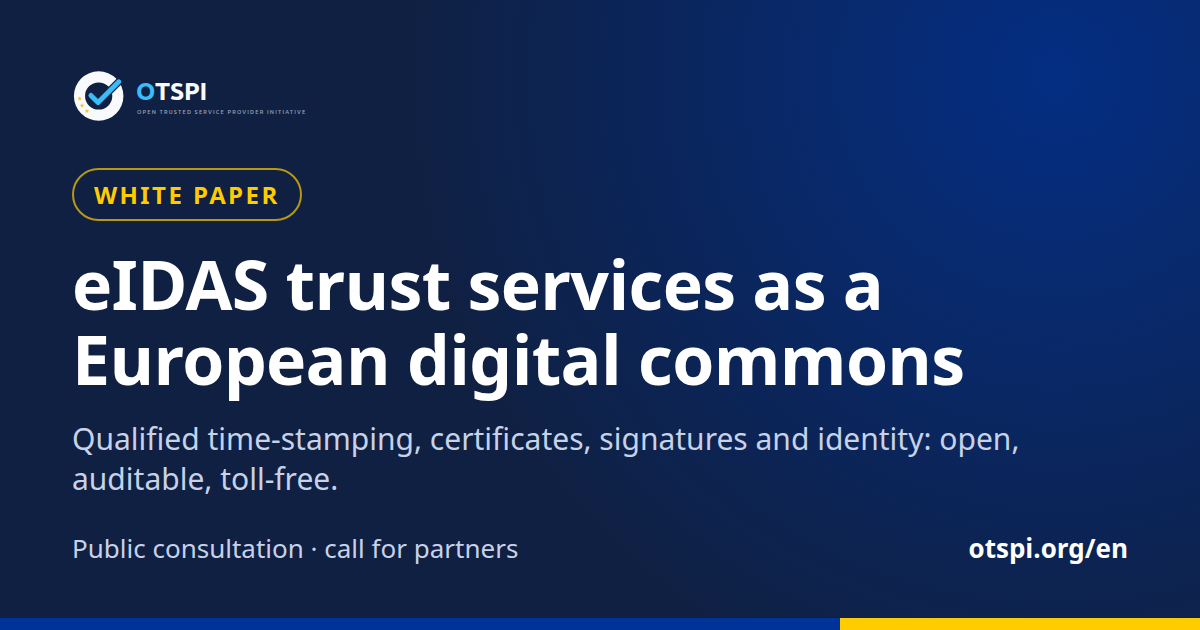
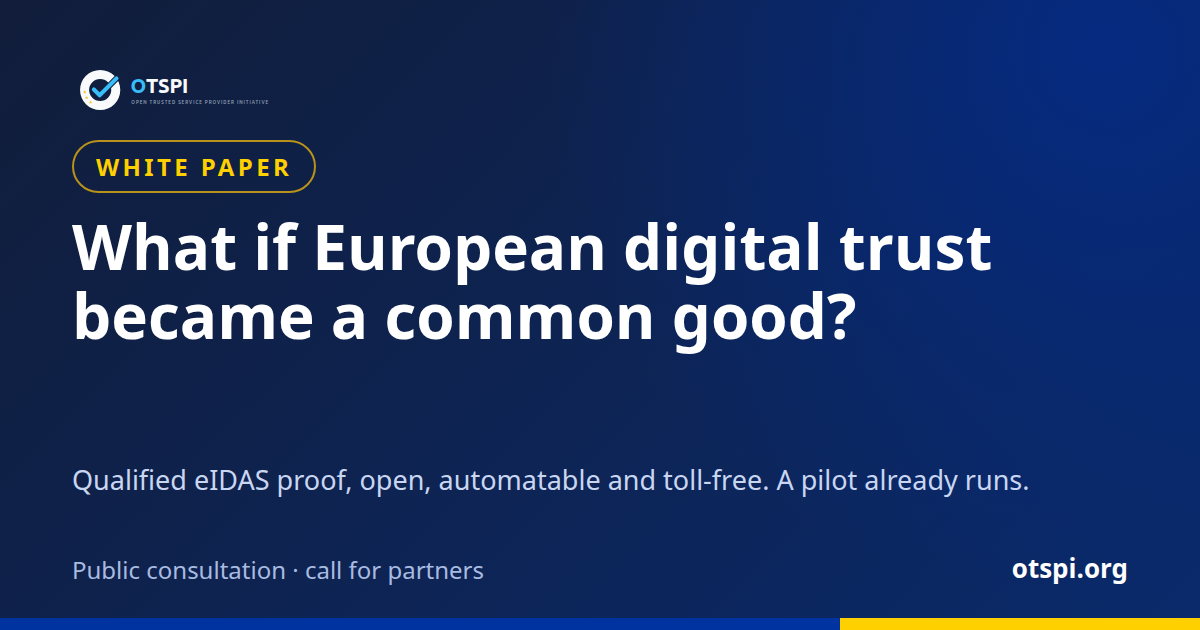
feat(accueil): images de partage régénérées avec la nouvelle accroche

diff --git a/scripts/build_og.py b/scripts/build_og.py
@@ -1,0 +1,91 @@
+#!/usr/bin/env python3
+# SPDX-License-Identifier: EUPL-1.2
+"""Génère les images de partage de l'accueil (1200 × 630) : assets/og/og-fr.png et og-en.png.
+
+L'image est composée en HTML puis capturée par Chrome ou Chromium en mode headless ; la variable
+d'environnement CHROME permet d'imposer le binaire. Le titre et le sous-titre doivent rester
+identiques à ceux du hero de la page d'accueil.
+
+Usage :
+    python3 scripts/build_og.py
+"""
+
+import os
+import shutil
+import subprocess
+import sys
+import tempfile
+from pathlib import Path
+
+ROOT = Path(__file__).resolve().parent.parent
+OUT = ROOT / "assets" / "og"
+LOGO = ROOT / "assets" / "logo-horizontal-transparent-dark.svg"
+
+TEXTS = {
+    "fr": ("Livre blanc", "Et si la confiance numérique européenne devenait un bien commun&nbsp;?",
+           "La preuve qualifiée eIDAS, ouverte, automatisable et sans péage. Un pilote tourne déjà.",
+           "Consultation publique · appel à partenaires"),
+    "en": ("White paper", "What if European digital trust became a common good?",
+           "Qualified eIDAS proof, open, automatable and toll-free. A pilot already runs.",
+           "Public consultation · call for partners"),
+}
+
+PAGE = """<!doctype html><html><head><meta charset="utf-8"><style>
+html,body{margin:0;width:1200px;height:630px;overflow:hidden}
+body{font-family:"Noto Sans","Open Sans",system-ui,sans-serif;color:#fff;
+background:radial-gradient(circle at 92% 8%,#052a80 0,transparent 45%),linear-gradient(135deg,#111d3a,#0a2a6b);position:relative}
+.logo{position:absolute;left:72px;top:64px;height:52px}
+.badge{position:absolute;left:72px;top:140px;padding:8px 22px;border:2px solid #b8921a;border-radius:999px;
+color:#ffd000;font-weight:700;font-size:24px;letter-spacing:.14em;text-transform:uppercase}
+h1{position:absolute;left:72px;top:212px;width:1056px;margin:0;font-size:62px;line-height:1.12;font-weight:700}
+.sub{position:absolute;left:72px;top:462px;width:1000px;font-size:27px;line-height:1.35;color:#c9d6f2}
+.foot{position:absolute;left:72px;bottom:44px;font-size:24px;color:#a9bbe0}
+.url{position:absolute;right:72px;bottom:44px;font-size:26px;font-weight:700}
+.bar{position:absolute;left:0;bottom:0;height:12px;width:70%;background:#0033a0}
+.bar2{position:absolute;right:0;bottom:0;height:12px;width:30%;background:#ffd000}
+</style></head><body>
+<img class="logo" src="logo.svg" alt="">
+<div class="badge">{{badge}}</div>
+<h1>{{title}}</h1>
+<div class="sub">{{sub}}</div>
+<div class="foot">{{foot}}</div><div class="url">otspi.org</div>
+<div class="bar"></div><div class="bar2"></div>
+</body></html>"""
+
+
+def find_chrome():
+    if os.environ.get("CHROME"):
+        return os.environ["CHROME"]
+    for name in ("google-chrome", "google-chrome-stable", "chromium", "chromium-browser"):
+        path = shutil.which(name)
+        if path:
+            return path
+    sys.exit("Chrome ou Chromium introuvable : définir la variable d'environnement CHROME.")
+
+
+def main():
+    chrome = find_chrome()
+    with tempfile.TemporaryDirectory() as work:
+        work = Path(work)
+        shutil.copy(LOGO, work / "logo.svg")
+        for lang, (badge, title, sub, foot) in TEXTS.items():
+            page = work / f"{lang}.html"
+            html = PAGE
+            for key, value in (("badge", badge), ("title", title), ("sub", sub), ("foot", foot)):
+                html = html.replace("{{" + key + "}}", value)
+            page.write_text(html, encoding="utf-8")
+            output = OUT / f"og-{lang}.png"
+            with tempfile.TemporaryDirectory() as profile:
+                cmd = [chrome, "--headless=new", "--disable-gpu", "--hide-scrollbars", f"--user-data-dir={profile}",
+                       "--allow-file-access-from-files", "--window-size=1200,630", f"--screenshot={output}", page.as_uri()]
+                if os.environ.get("CI"):
+                    cmd.insert(1, "--no-sandbox")
+                result = subprocess.run(cmd, capture_output=True, text=True, timeout=120)
+            if result.returncode != 0 or not output.is_file():
+                sys.stderr.write(result.stderr)
+                sys.exit(f"Échec de la génération de {output.name}")
+            print(output.relative_to(ROOT))
+
+
+if __name__ == "__main__":
+    main()
